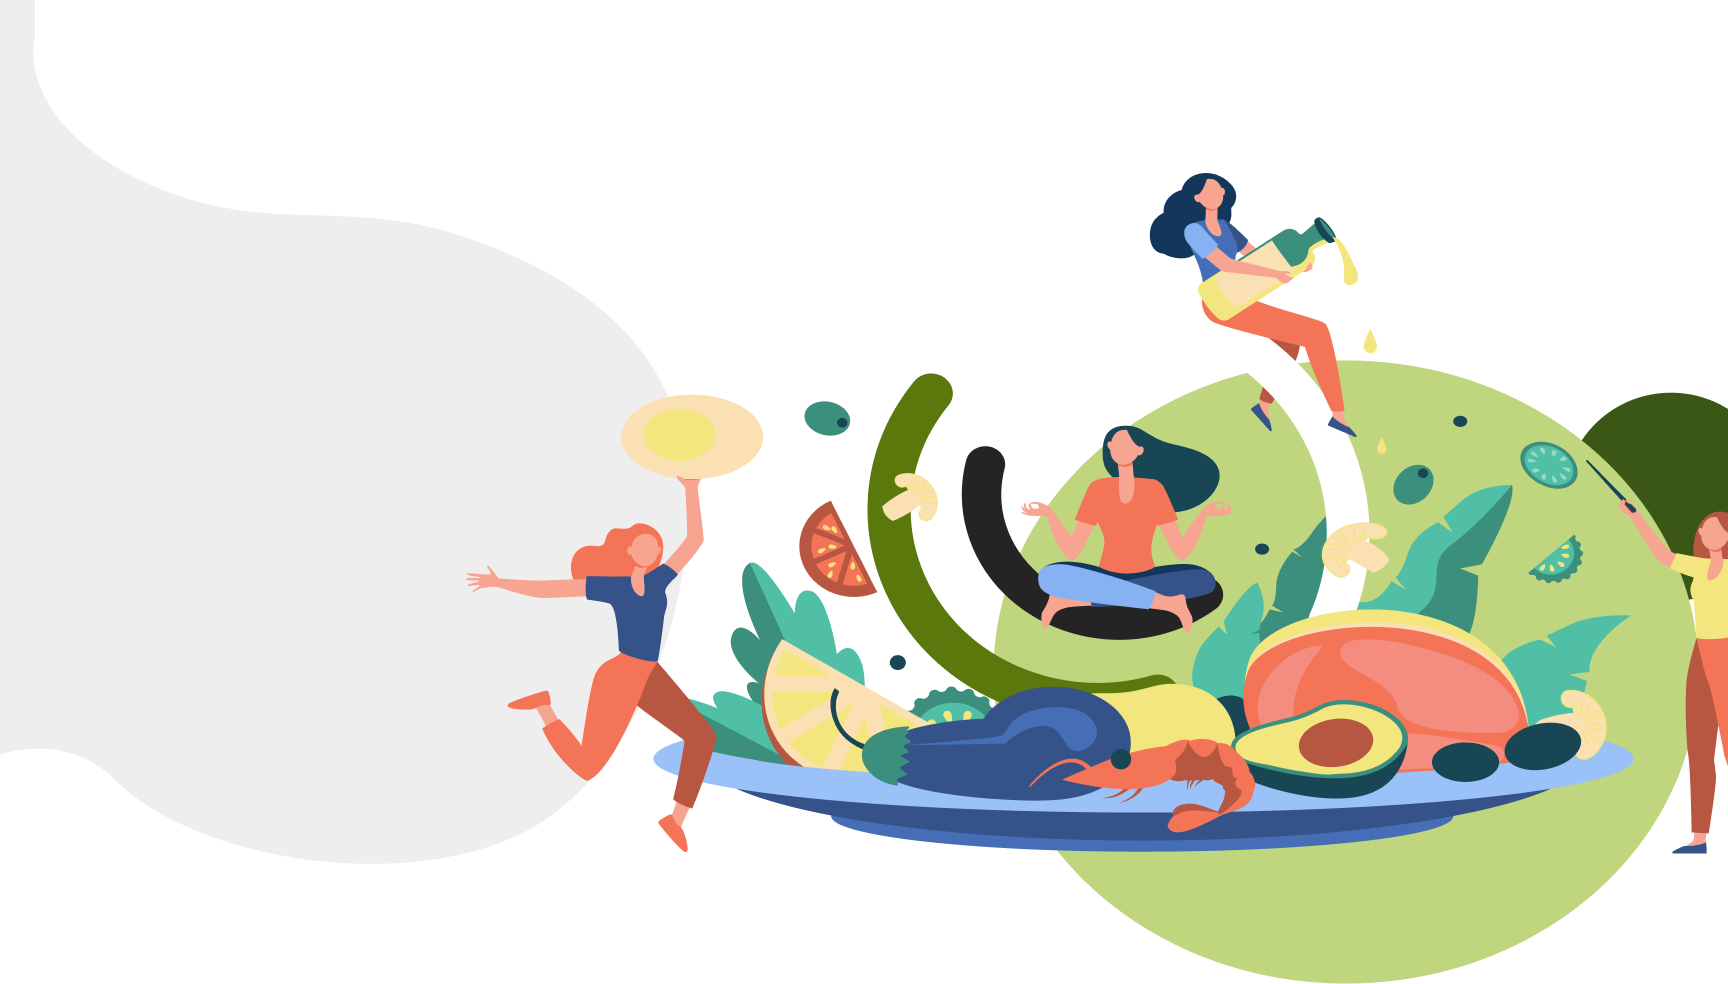
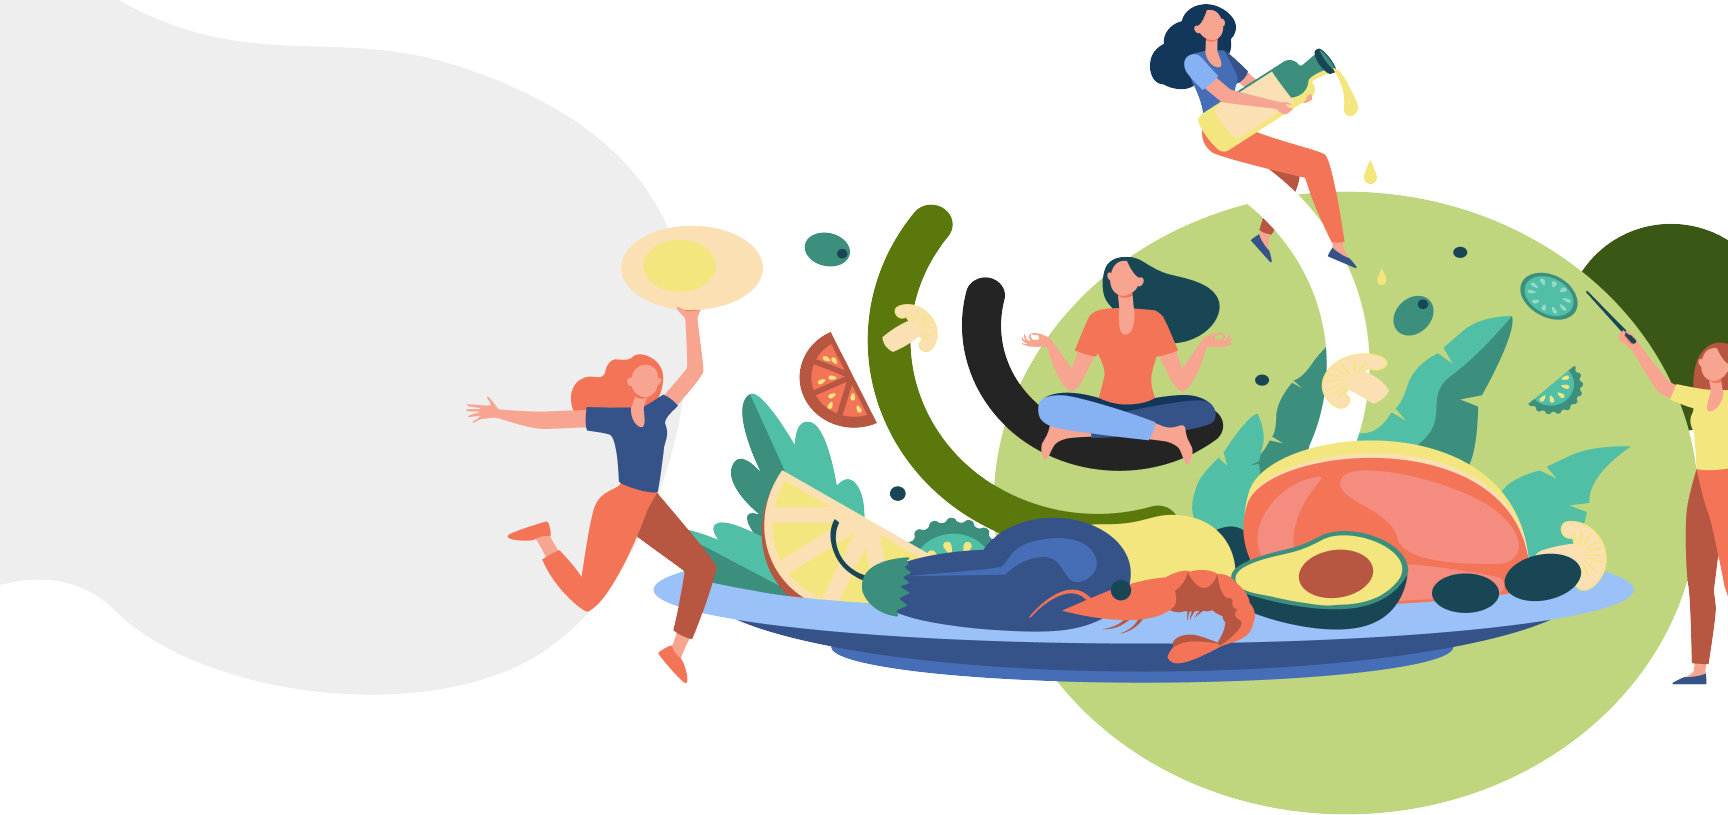
update

diff --git a/index.html b/index.html
@@ -39,13 +39,14 @@
 <!--End Full Screen Nav Overlay-->
 <!--End Navigation-->
 
-      <div style="background-image: url(img/headerBG.png); height:fit-content;" class="section">
+      <div height="600px" class="section headerbg">
         <div>
           <h1>Willkommen <br> bei Helvee</h1>
           <h3>Mehr vom Leben - <br> mehr im Portemonnaie</h4>
         </div>
       </div>
-      <div class="section">
+
+      <div class="section" style="margin-top: 600px; background-color: white;">
       <div class="flex-container">
         <div class="flex-container1"><img class="imgs" src="img/happy-woman-glasses-makes-winning-gesture-sincerely-rejoices-lady-with-red-lipstick-dressed-gray-sweater-looking-laptop.jpg" width="100%"></div>
         <div class="flex-container1" style="margin-left: 40px;">
@@ -62,7 +63,7 @@
         <div class="footer-flex"><img src="img/Logo.png" width="150px"></div>
         <div class="footer-flex">
          <ul class="footer-list"> 
-          <h2>Navigation</h2>
+          <h4>Navigation</h4>
           <li>Helvees</li>
           <li>Partner</li>
           <li>Über Unser</li>
@@ -72,7 +73,7 @@
         </div>
         <div class="footer-flex">
           <ul class="footer-list"> 
-            <h2>Kontakt</h2>
+            <h4>Kontakt</h4>
             <li><strong>Helvee GmbH</strong></li>
             <li>Limmatstrasse 21</li>
             <li>8005 Zürich</li>
@@ -83,7 +84,7 @@
         </div>
         <div class="footer-flex">
           <ul>
-           <h2>Social Media</h2>
+           <h4>Social Media</h4>
           <img src="img/Linkedin.png">
           <img src="img/instagram.png">
           <img src="img/Tiktok.png">

diff --git a/style.css b/style.css
@@ -176,10 +176,17 @@ h3{
   font-style: normal;
   color: #BFD67F;
 }
+h4{
+  font-family: "Barlow", serif;
+  font-weight: 800;
+  font-style: normal;
+  font-size: 20px;
+  color: #ffffff;
+}
 
 .imgs{
-  border-top-left-radius: 50px;
-  border-bottom-right-radius: 50px;
+  border-top-left-radius: 200px;
+  border-bottom-right-radius: 200px;
 }
 /*End of Styling Classes - Components*/
 
@@ -197,7 +204,13 @@ h3{
   padding: 20px 8% 20px 8%;
 }
 
-
+.headerbg{
+  background-image: url(img/headerBG.png);
+  position: fixed;
+  z-index: -1;
+  width: 100%;
+  height: 100%;
+}
 
 /*Footer*/
 .footer{
